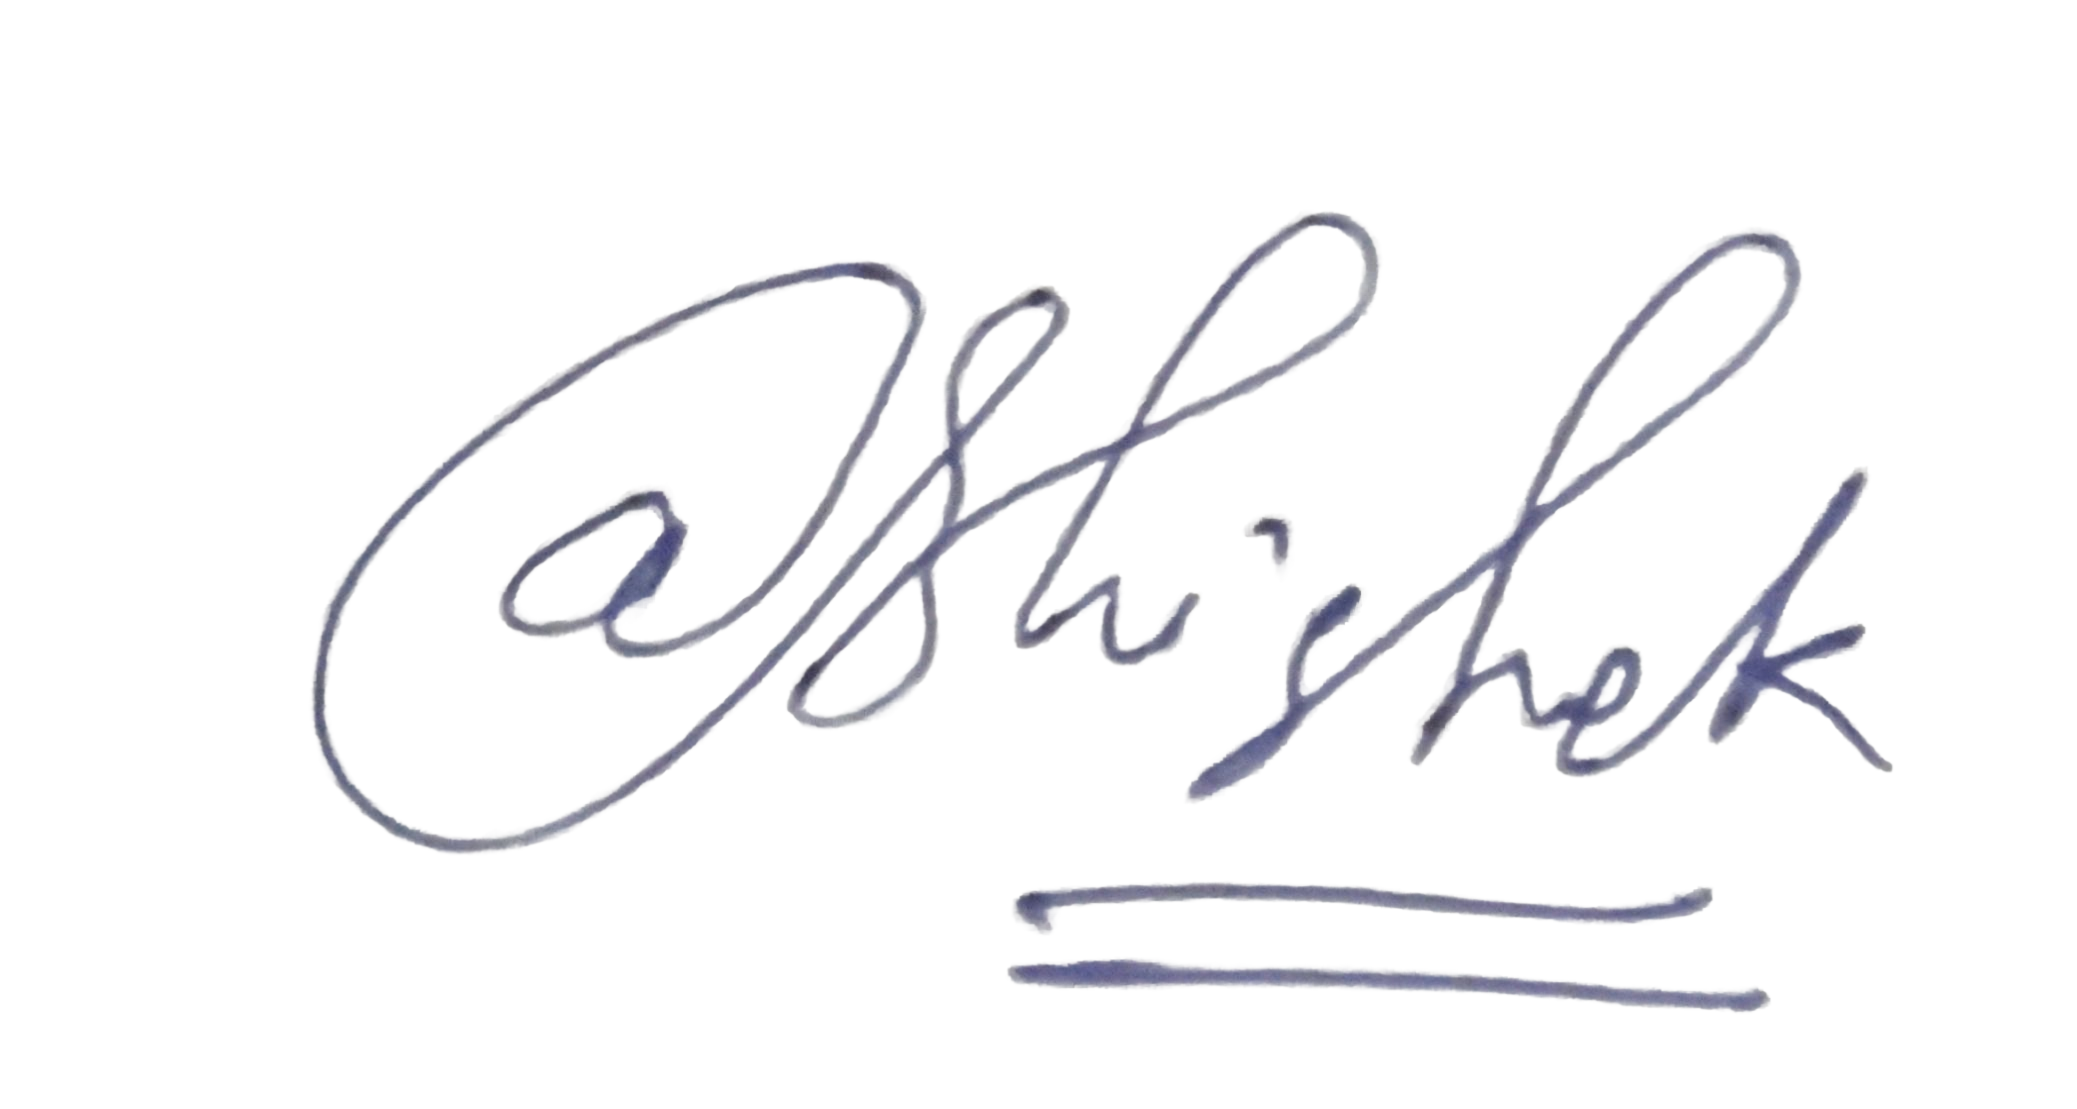
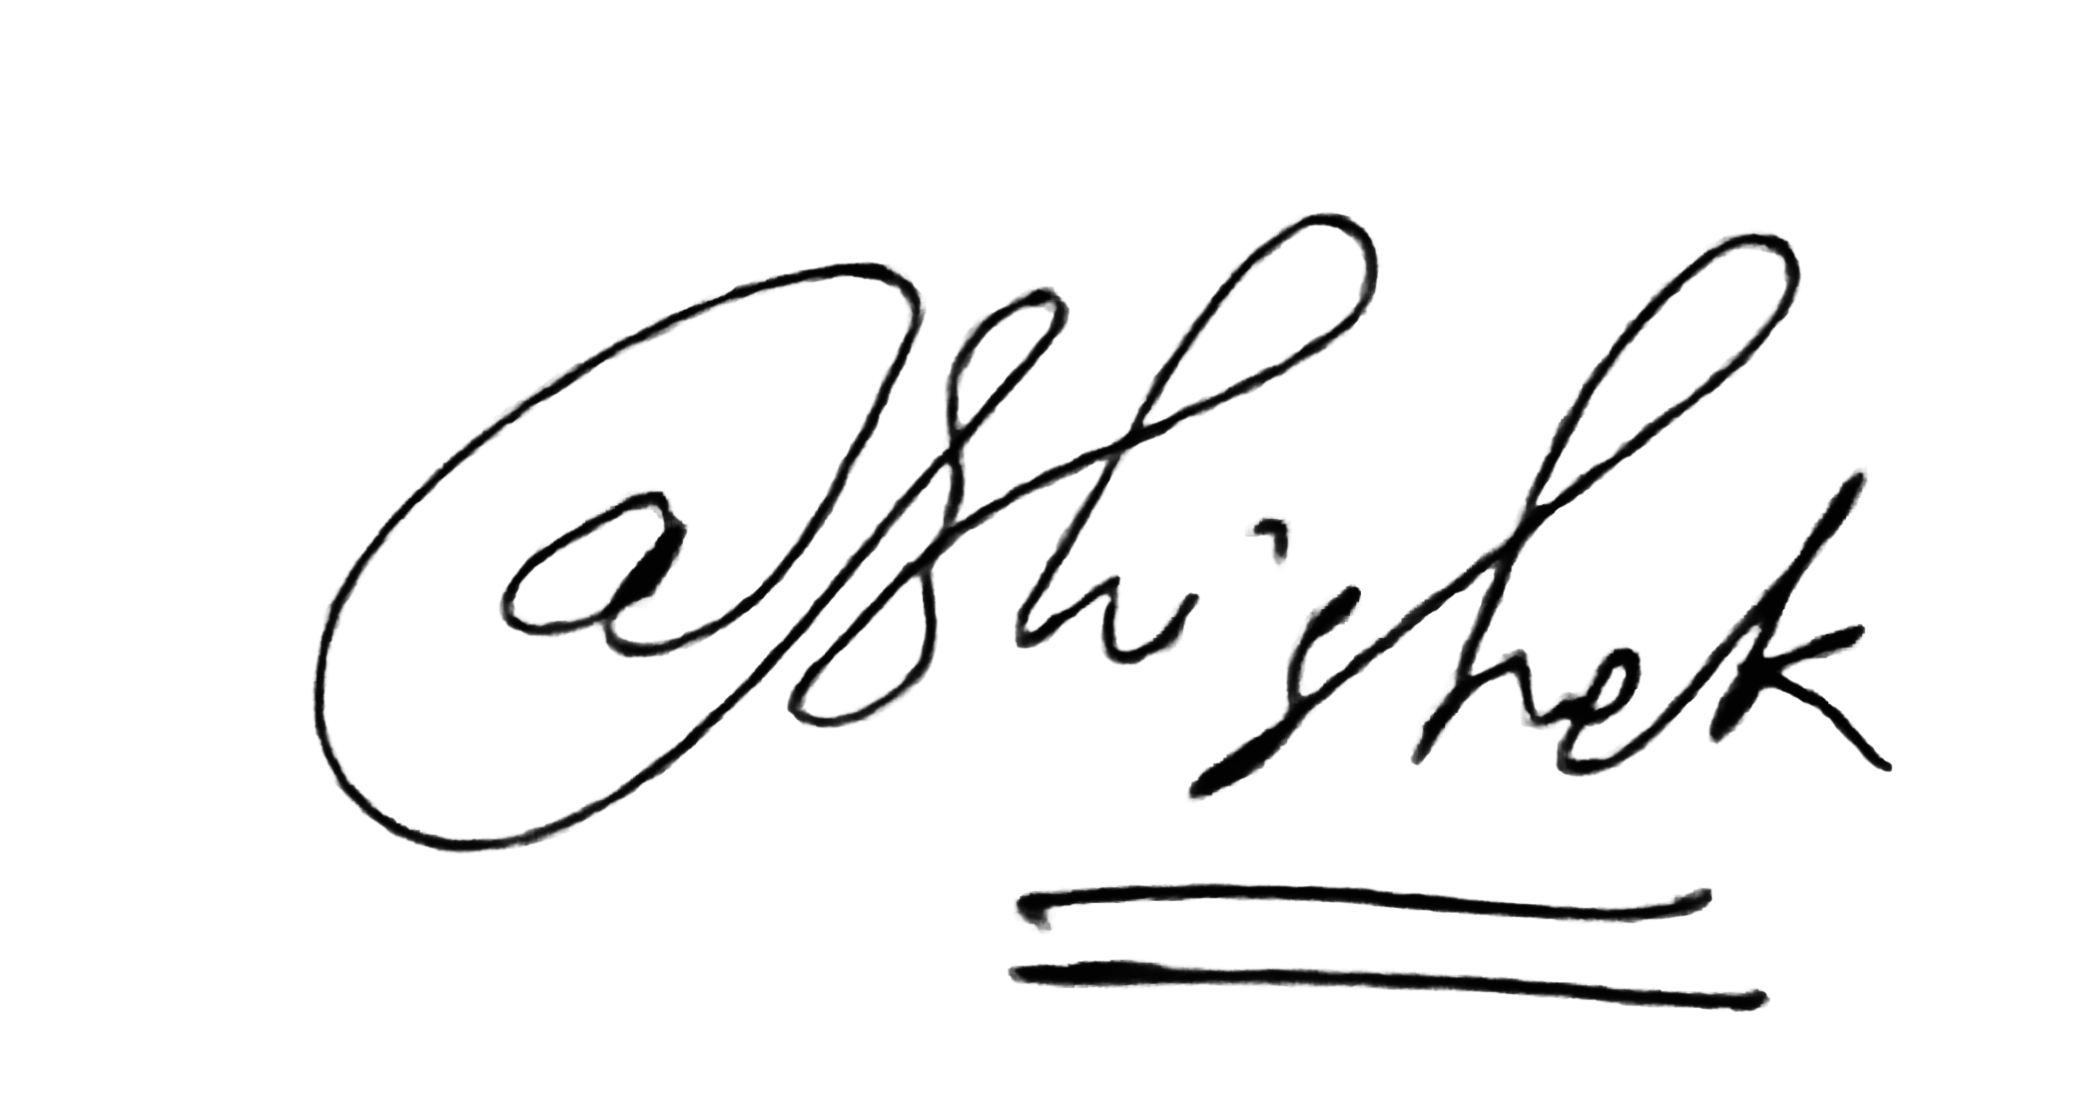
added transition in each html files and increased contrast in sign

diff --git a/styles-home.css b/styles-home.css
@@ -8,18 +8,17 @@ nav ul li a:hover {
     color: #ffffff;
 }
 header {
-    background-color: #87baf0;
+    background-color: #1e1e1e; /* Dark background */
     padding: 20px 40px;
     box-shadow: 0 2px 4px rgba(0, 0, 0, 0.1);
     position: relative;
-
+    overflow: hidden; /* Add overflow hidden to contain the animation */
 }
 
 nav ul {
     list-style-type: none;
     margin: 0;
     padding: 0;
-    margin-top:10px;
     display: flex;
     justify-content: flex-end;
 }
@@ -30,9 +29,32 @@ nav ul li {
 
 nav ul li a {
     text-decoration: none;
-    color: #333;
+    color: #00ffff; /* Neon blue */
     font-weight: bold;
-    transition: color 0.3s ease;
+    transition: color 0.3s ease, transform 0.2s ease;
+    position: relative; /* Needed for the animation */
+    overflow: hidden; /* Add overflow hidden to contain the animation */
+}
+
+nav ul li a::before {
+    content: "";
+    position: absolute;
+    top: 0;
+    left: -100%;
+    width: 100%;
+    height: 100%;
+    background-color: #00ffff; /* Neon blue */
+    opacity: 0.5;
+    z-index: -1;
+    transition: left 0.3s ease;
+}
+
+nav ul li a:hover {
+    color: #ffffff;
+}
+
+nav ul li a:hover::before {
+    left: 100%;
 }
 
 .home-section {

diff --git a/styles-education.css b/styles-education.css
@@ -224,3 +224,18 @@ footer p {
     text-align: center; /* Center footer text */
     padding: 20px; /* Add some padding */
 }
+
+.experience-section, .degrees-container, .certifications-container {
+    animation: fadeIn 1s ease-in-out;
+}
+
+@keyframes fadeIn {
+    from {
+        opacity: 0;
+        transform: translateY(20px);
+    }
+    to {
+        opacity: 1;
+        transform: translateY(0);
+    }
+}

diff --git a/styles-project.css b/styles-project.css
@@ -105,3 +105,18 @@ footer p {
     text-align: center; /* Center footer text */
     padding: 20px; /* Add some padding */
 }
+
+.experience-section, .certifications-container {
+    animation: fadeIn 1s ease-in-out;
+}
+
+@keyframes fadeIn {
+    from {
+        opacity: 0;
+        transform: translateY(20px);
+    }
+    to {
+        opacity: 1;
+        transform: translateY(0);
+    }
+}

diff --git a/styles-services.css b/styles-services.css
@@ -140,3 +140,18 @@ footer p {
     text-align: center; /* Center footer text */
     padding: 20px; /* Add some padding */
 }
+
+.what-i-do, .cloud-infra {
+    animation: fadeIn 1s ease-in-out;
+}
+
+@keyframes fadeIn {
+    from {
+        opacity: 0;
+        transform: translateY(20px);
+    }
+    to {
+        opacity: 1;
+        transform: translateY(0);
+    }
+}

diff --git a/styles-contact.css b/styles-contact.css
@@ -122,3 +122,20 @@ footer p {
     text-align: center;
     color: #666;
 }
+
+.section {
+    padding: 60px 20px;
+    background-color: #f0f8ff;
+    animation: fadeIn 1s ease-in-out;
+}
+
+@keyframes fadeIn {
+    from {
+        opacity: 0;
+        transform: translateY(20px);
+    }
+    to {
+        opacity: 1;
+        transform: translateY(0);
+    }
+}

diff --git a/styles-experience.css b/styles-experience.css
@@ -136,3 +136,18 @@ footer p {
     margin-top: 10px;
     display: block;
 }
+
+.experience-section, .timeline-section {
+    animation: fadeIn 1s ease-in-out;
+}
+
+@keyframes fadeIn {
+    from {
+        opacity: 0;
+        transform: translateY(20px);
+    }
+    to {
+        opacity: 1;
+        transform: translateY(0);
+    }
+}
